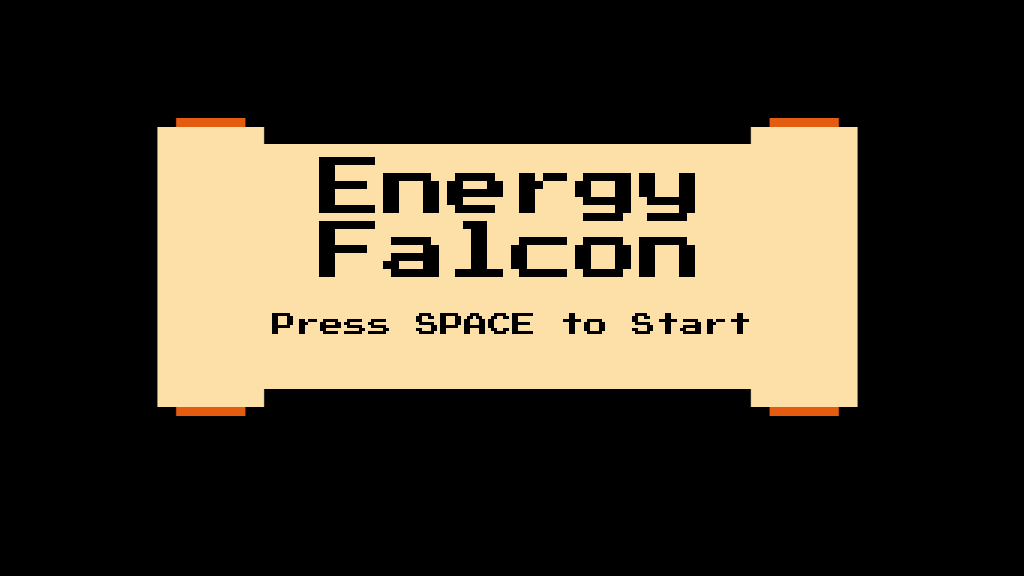
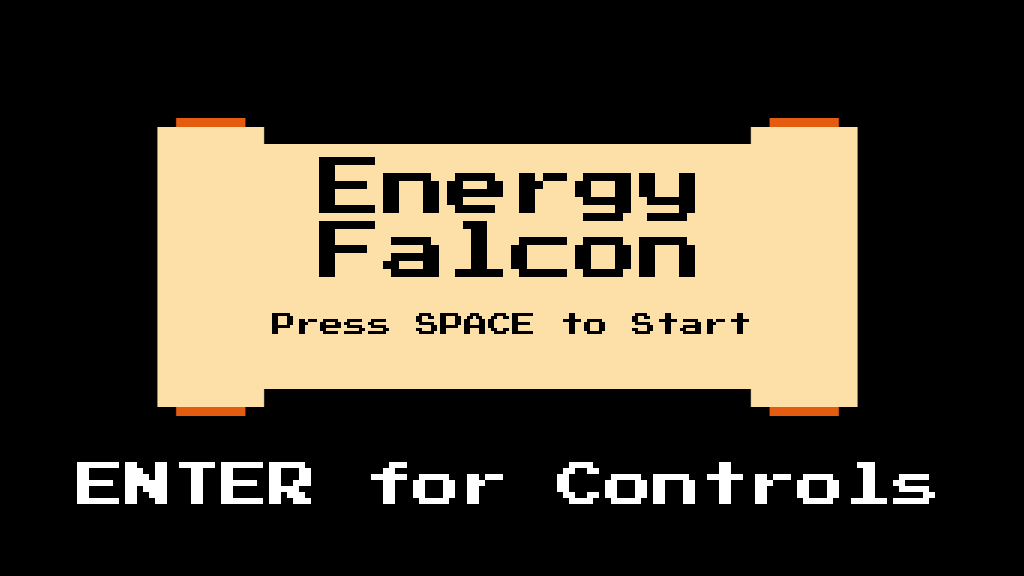
new state screens

Changed region(s): [[0.5312, 0.7812, 0.9062, 0.875], [0.0625, 0.7812, 0.3125, 0.875], [0.3438, 0.7812, 0.5, 0.875]]

diff --git a/EnergyFalcon/src/EnergyFalcon.java b/EnergyFalcon/src/EnergyFalcon.java
@@ -14,7 +14,7 @@ import arcadia.Sound;
 public class EnergyFalcon extends Game {
 	private static final long STATE_CHANGE_DELAY = 500000000L;
 	
-	Image cover, background;
+	Image cover, background, controls, pause;
 	private GameState lastState = null;
 	private GameState state = GameState.START;
 	private long allowNextChangeTime = 0;
@@ -46,6 +46,9 @@ public class EnergyFalcon extends Game {
 
 		try {
 			cover = ImageIO.read(this.getClass().getResource("cover.png"));
+			controls = ImageIO.read(this.getClass().getResource("controls.png"));
+			pause = ImageIO.read(this.getClass().getResource("pause.png")).getScaledInstance(Game.WIDTH, Game.HEIGHT,
+					0);
 			background = ImageIO.read(this.getClass().getResource("ArenaFix.png")).getScaledInstance(Game.WIDTH,
 					Game.HEIGHT, 0);
 			win = ImageIO.read(this.getClass().getResource("WinScreen.png")).getScaledInstance(Game.WIDTH, Game.HEIGHT,
@@ -91,9 +94,8 @@ public class EnergyFalcon extends Game {
 			}
 			break;
 		case CONTROLS:
-			//TODO make controls screen graphics.drawImage(controls, 0, 0, null);
-			graphics.setColor(Color.RED);
-			graphics.fillRect(0, 0, Game.WIDTH, Game.HEIGHT);
+	
+			graphics.drawImage(controls, 0, 0, null);
 			if(allowNextChangeTime < System.nanoTime()){
 				if (input.pressed(Button.B)) {
 					justChanged = true;
@@ -138,9 +140,7 @@ public class EnergyFalcon extends Game {
 			}
 			break;
 		case PAUSE:
-			//TODO make pause screen graphics.drawImage(pause, 0, 0, null);
-			graphics.setColor(Color.BLUE);
-			graphics.fillRect(0, 0, Game.WIDTH, Game.HEIGHT);
+			graphics.drawImage(pause, 0, 0, null);
 			if(allowNextChangeTime < System.nanoTime()){
 				if (input.pressed(Button.B)) {
 					justChanged = true;
